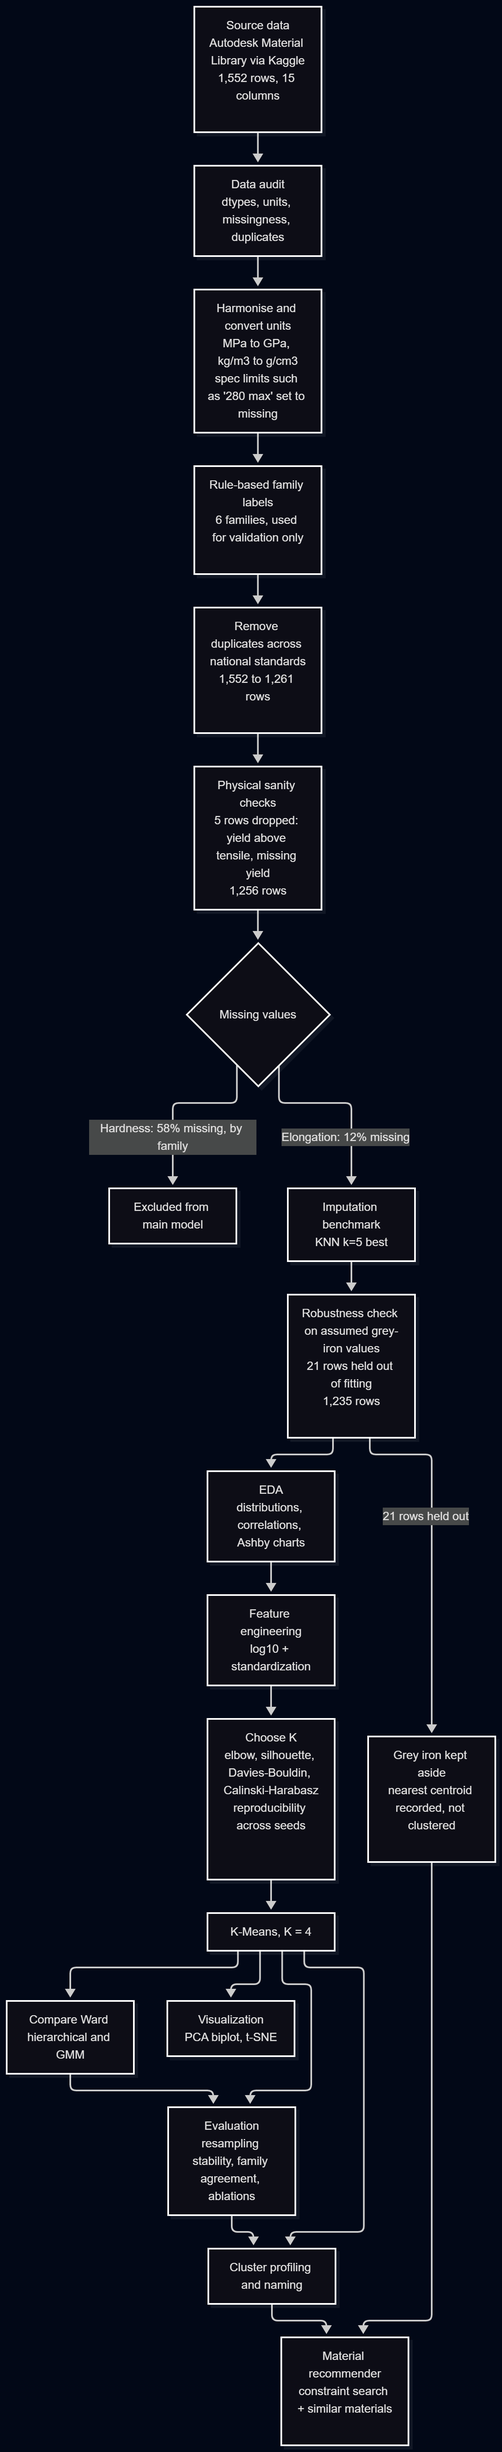
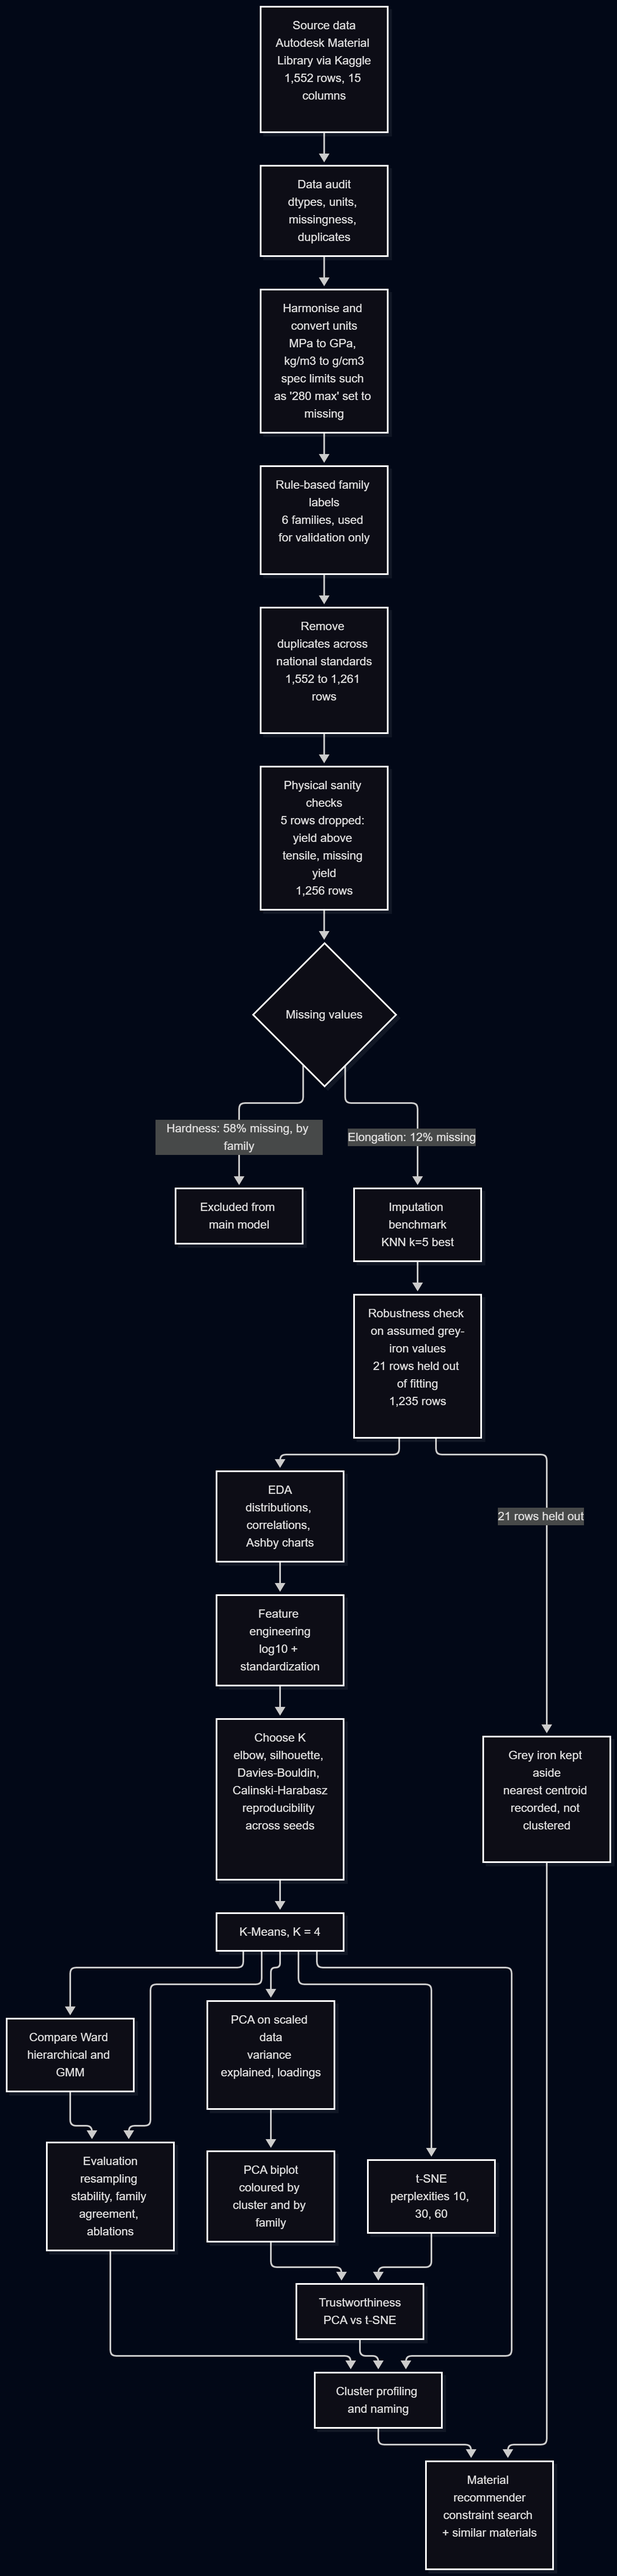
Add search-space reduction, application table and expanded workflow diagram

diff --git a/README.md b/README.md
@@ -30,7 +30,12 @@ flowchart TD
     L --> M["Choose K<br/>elbow, silhouette, Davies-Bouldin, Calinski-Harabasz<br/>reproducibility across seeds"]
     M --> N["K-Means, K = 4"]
     N --> O["Compare Ward hierarchical and GMM"]
-    N --> P["Visualization<br/>PCA biplot, t-SNE"]
+    N --> P1["PCA on scaled data<br/>variance explained, loadings"]
+    P1 --> P2["PCA biplot<br/>coloured by cluster and by family"]
+    N --> P3["t-SNE<br/>perplexities 10, 30, 60"]
+    P2 --> P4["Trustworthiness<br/>PCA vs t-SNE"]
+    P3 --> P4
+    P4 --> R
     N --> Q["Evaluation<br/>resampling stability, family agreement, ablations"]
     O --> Q
     N --> R["Cluster profiling and naming"]
